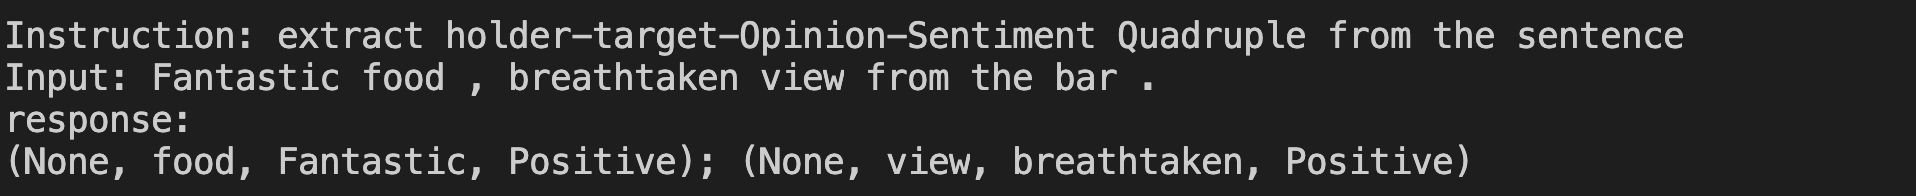
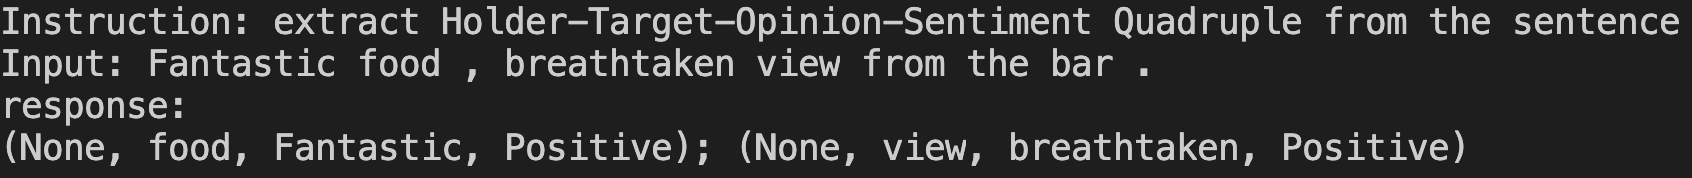
improve HTOS data

Changed region(s): [[0.0, 0.0281, 1.0, 0.4775], [0.0, 0.7303, 0.8605, 0.927], [0.0, 0.5337, 0.1229, 0.7022]]

diff --git a/README.md b/README.md
@@ -36,6 +36,7 @@ Instruction: extract aspect terms from the sentence
 
 ### Opinion Term Extraction
 Instruction: extract opinion terms from the sentence
+
 ![](./figures/tasks/OTE.png)
 
 ### Aspect Term-Opinion Term Pair Extraction
@@ -59,7 +60,7 @@ Instruction: extract Aspect-Category-Opinion-Sentiment Quadruple from the senten
 ![](./figures/tasks/ACOS.png)
 
 ### Holder, Target, Opinion, Sentiment (HTOS) Quadruple Extraction
-Instruction: extract holder-target-Opinion-Sentiment Quadruple from the sentence
+Instruction: extract Holder-Target-Opinion-Sentiment Quadruple from the sentence
 ![](./figures/tasks/HTOS.png)
 
 ### Try Chat-Sentiment Yourself
